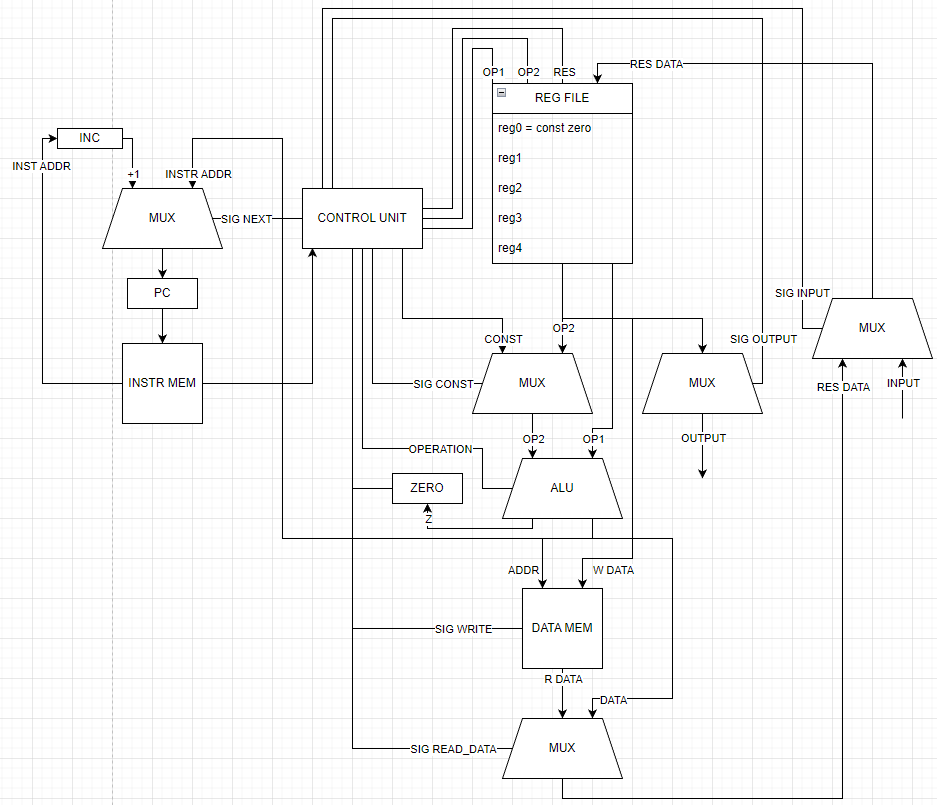
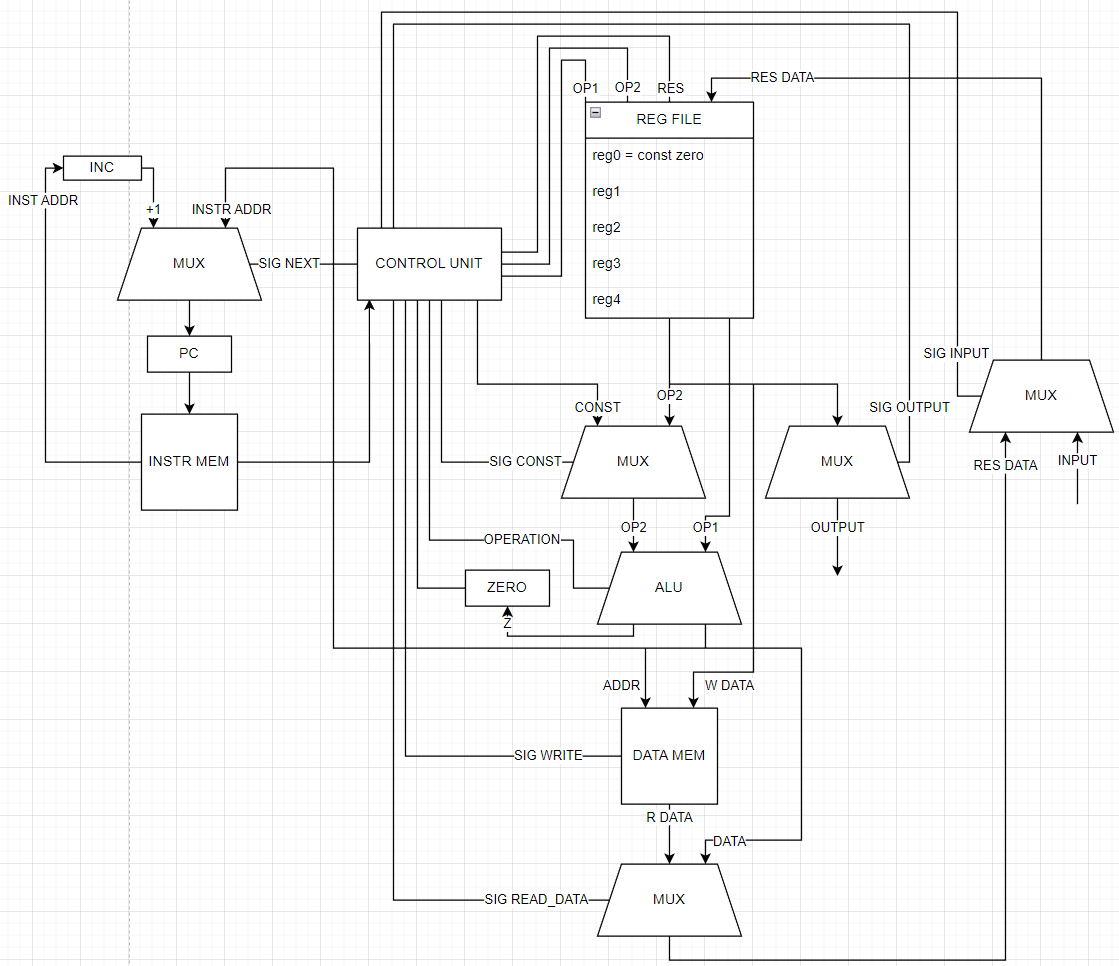
image fix

diff --git a/README.md b/README.md
@@ -223,7 +223,7 @@ opcode=SUB operands_type=REG_REG_CONST operands=['0', '1', '1000']
 
 ### Схема DataPath и ControlUnit
 
-![https://drive.google.com/file/d/13UWQ3JS0PwBvoOHBYT5JUBouj7UB9Ehz/view?usp=share_link](/image.png "Схема DataPath и ControlUnit")
+![https://drive.google.com/file/d/1UAJ1Mogn2baRUmme73Vbf2_NGS0mOF4n/view?usp=sharing](/image.png "Схема DataPath и ControlUnit")
 
 ### DataPath
 
